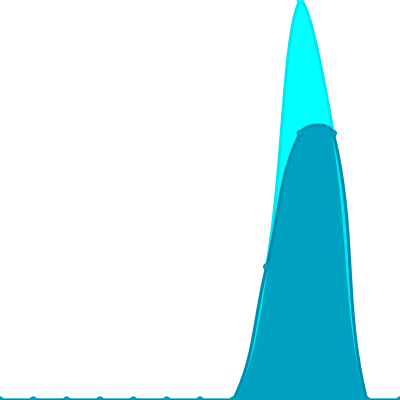
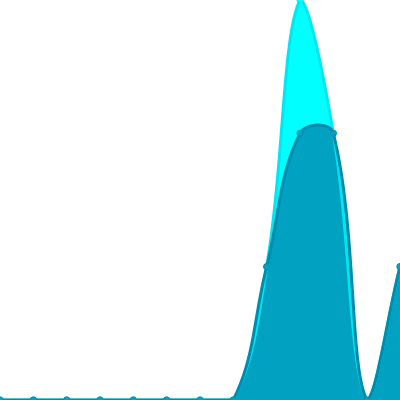
Update views

Changed region(s): [[0.84, 0.57, 1.0, 1.0]]

diff --git a/readme/658716039/year.md b/readme/658716039/year.md
@@ -23,10 +23,10 @@
 			<code>2026/10/1</code>
 		</td>
 		<td>
-			<code>0</code>
+			<code>1</code>
 		</td>
 		<td>
-			<code>0</code>
+			<code>1</code>
 		</td>
 	</tr>
 	<tr>
@@ -164,7 +164,7 @@
 </table>
 
 </details>
-<small><i>Last updated on 2026/10/3 4:54 AM UTC</i></small>
+<small><i>Last updated on 2026/10/3 11:27 AM UTC</i></small>
 
 ## ✂Copy and 📋 Paste
 ### SVG Badge

diff --git a/README.md b/README.md
@@ -69,7 +69,7 @@ The project created and maintained by [gayanvoice](https://github.com/gayanvoice
 	</tr>
 </table>
 
-<small><i>Last updated on 2026/10/3 4:55 AM UTC</i></small>
+<small><i>Last updated on 2026/10/3 11:28 AM UTC</i></small>
 
 ## ✂Copy and 📋 Paste
 ### Total Views Badge

diff --git a/readme/1013951127/year.md b/readme/1013951127/year.md
@@ -164,7 +164,7 @@
 </table>
 
 </details>
-<small><i>Last updated on 2026/10/3 4:54 AM UTC</i></small>
+<small><i>Last updated on 2026/10/3 11:27 AM UTC</i></small>
 
 ## ✂Copy and 📋 Paste
 ### SVG Badge

diff --git a/readme/891247015/year.md b/readme/891247015/year.md
@@ -164,7 +164,7 @@
 </table>
 
 </details>
-<small><i>Last updated on 2026/10/3 4:55 AM UTC</i></small>
+<small><i>Last updated on 2026/10/3 11:27 AM UTC</i></small>
 
 ## ✂Copy and 📋 Paste
 ### SVG Badge
